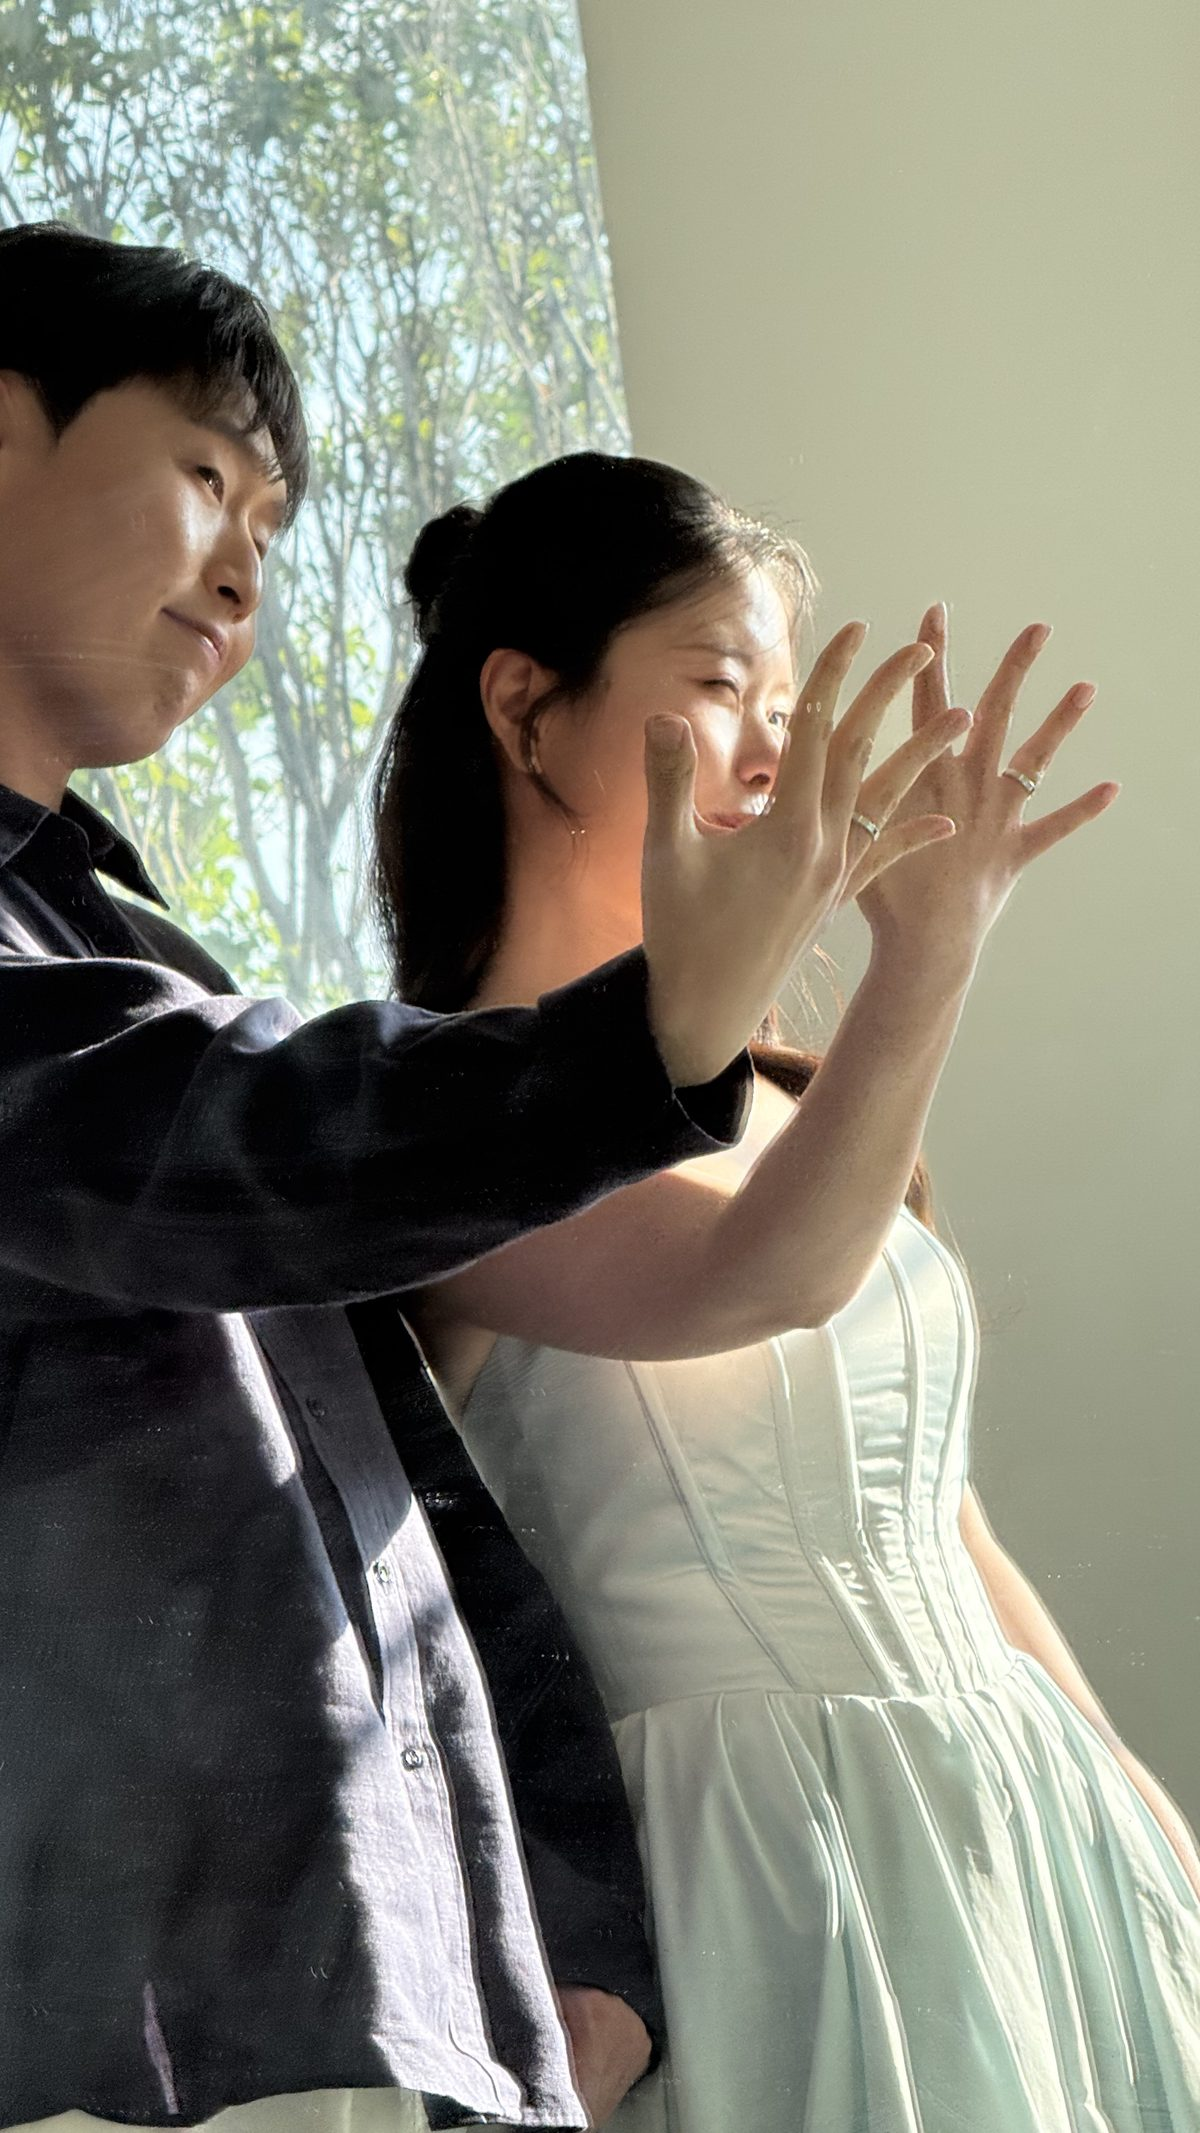
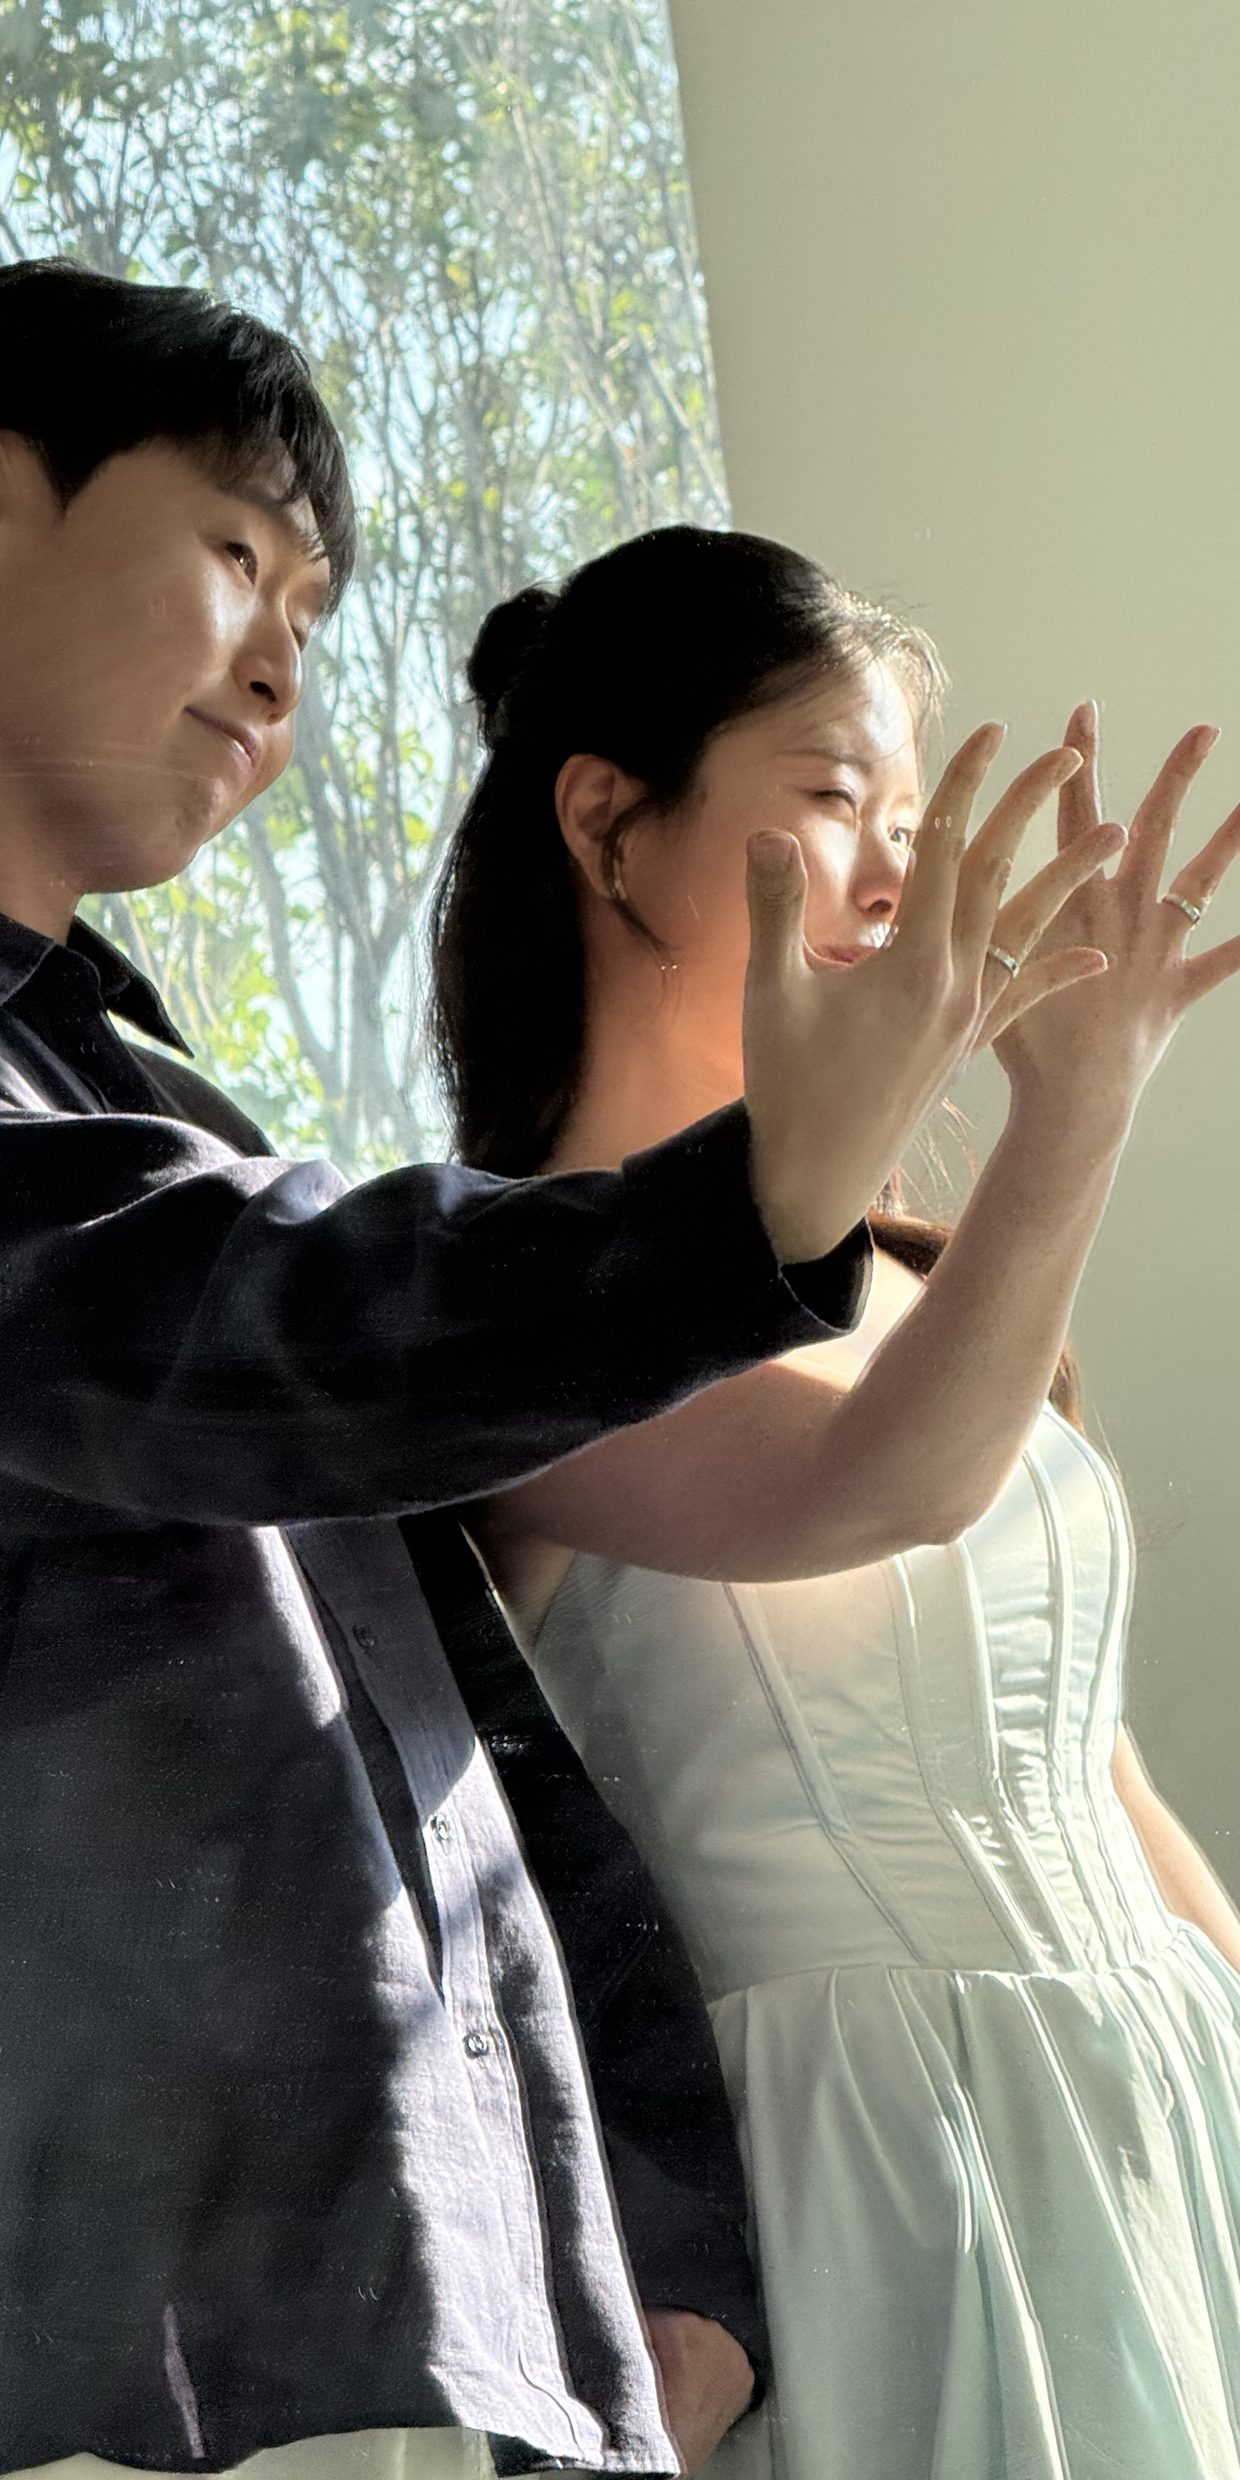
커버: 화면 높이에 맞춰 프레임·텍스트 잘림 방지 + 첫 진입 시 높이 px 고정 + 사진 크롭 완화

diff --git a/index.html b/index.html
@@ -64,9 +64,8 @@
 
   /* ---------- 커버 ---------- */
   .cover {
-    height: calc(100vw * 1.95);
+    height: 100svh;
     min-height: 520px;
-    max-height: 880px;
     overflow: hidden;
     background-color: #2A2C28;
     color: #FFFFFF;
@@ -84,7 +83,7 @@
     width: 100%;
     height: 100%;
     object-fit: cover;
-    object-position: 50% 22%;
+    object-position: 50% 18%;
     display: block;
     z-index: 0;
   }
@@ -701,6 +700,24 @@
     .scroll-line::after { animation: none; }
   }
 </style>
+<script>
+  (function () {
+    function px() {
+      var h = window.innerHeight || 0;
+      if (!h) return;
+      var s = document.getElementById("cover-h-style") || document.createElement("style");
+      s.id = "cover-h-style";
+      s.textContent = ".cover{height:" + h + "px}";
+      if (!s.parentNode) document.head.appendChild(s);
+    }
+    px();
+    var w0 = window.innerWidth;
+    window.addEventListener("orientationchange", function () { setTimeout(px, 300); });
+    window.addEventListener("resize", function () {
+      if (Math.abs(window.innerWidth - w0) > 40) { w0 = window.innerWidth; px(); }
+    });
+  })();
+</script>
 </head>
 <body>
 

diff --git a/preview.html b/preview.html
@@ -64,9 +64,8 @@
 
   /* ---------- 커버 ---------- */
   .cover {
-    height: calc(100vw * 1.95);
+    height: 100svh;
     min-height: 520px;
-    max-height: 880px;
     overflow: hidden;
     background-color: #2A2C28;
     color: #FFFFFF;
@@ -84,7 +83,7 @@
     width: 100%;
     height: 100%;
     object-fit: cover;
-    object-position: 50% 22%;
+    object-position: 50% 18%;
     display: block;
     z-index: 0;
   }
@@ -701,6 +700,24 @@
     .scroll-line::after { animation: none; }
   }
 </style>
+<script>
+  (function () {
+    function px() {
+      var h = window.innerHeight || 0;
+      if (!h) return;
+      var s = document.getElementById("cover-h-style") || document.createElement("style");
+      s.id = "cover-h-style";
+      s.textContent = ".cover{height:" + h + "px}";
+      if (!s.parentNode) document.head.appendChild(s);
+    }
+    px();
+    var w0 = window.innerWidth;
+    window.addEventListener("orientationchange", function () { setTimeout(px, 300); });
+    window.addEventListener("resize", function () {
+      if (Math.abs(window.innerWidth - w0) > 40) { w0 = window.innerWidth; px(); }
+    });
+  })();
+</script>
 </head>
 <body>
 

diff --git a/v2.html b/v2.html
@@ -64,9 +64,8 @@
 
   /* ---------- 커버 ---------- */
   .cover {
-    height: calc(100vw * 1.95);
+    height: 100svh;
     min-height: 520px;
-    max-height: 880px;
     overflow: hidden;
     background-color: #2A2C28;
     color: #FFFFFF;
@@ -84,7 +83,7 @@
     width: 100%;
     height: 100%;
     object-fit: cover;
-    object-position: 50% 22%;
+    object-position: 50% 18%;
     display: block;
     z-index: 0;
   }
@@ -701,6 +700,24 @@
     .scroll-line::after { animation: none; }
   }
 </style>
+<script>
+  (function () {
+    function px() {
+      var h = window.innerHeight || 0;
+      if (!h) return;
+      var s = document.getElementById("cover-h-style") || document.createElement("style");
+      s.id = "cover-h-style";
+      s.textContent = ".cover{height:" + h + "px}";
+      if (!s.parentNode) document.head.appendChild(s);
+    }
+    px();
+    var w0 = window.innerWidth;
+    window.addEventListener("orientationchange", function () { setTimeout(px, 300); });
+    window.addEventListener("resize", function () {
+      if (Math.abs(window.innerWidth - w0) > 40) { w0 = window.innerWidth; px(); }
+    });
+  })();
+</script>
 </head>
 <body>
 
